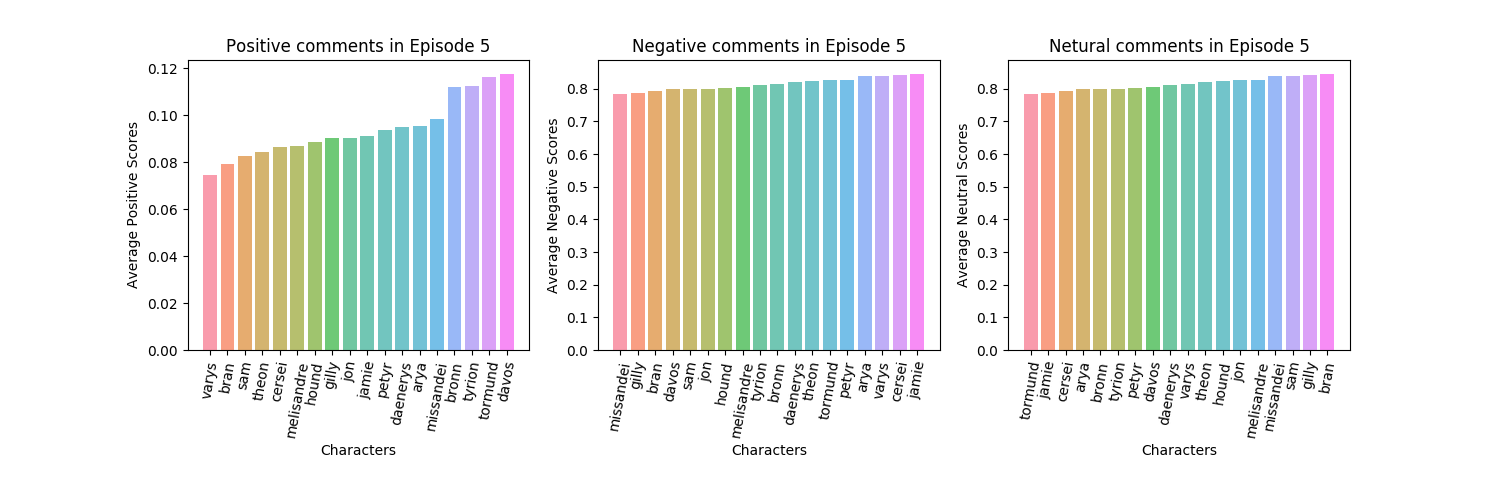
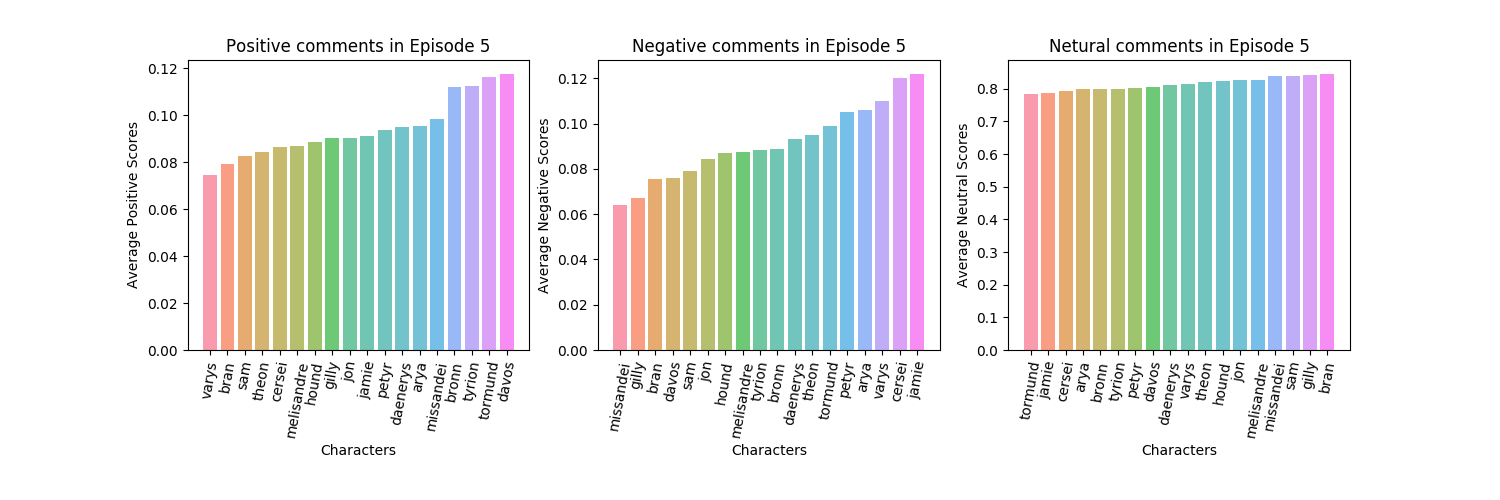
plot error fixed

Changed region(s): [[0.3373, 0.15, 0.6133, 0.66], [0.368, 0.69, 0.3987, 0.72], [0.368, 0.15, 0.3987, 0.18]]

diff --git a/src/SentimentCharactersplot.py b/src/SentimentCharactersplot.py
@@ -50,7 +50,7 @@ for episode_nr in range(len(list_of_inputs)):
         # sort the positive, negative and neutral dictionary by the values 
 		poskeys,posvalues = sortedkeysandvalues(positive)
 		negkeys,negvalues = sortedkeysandvalues(negative)
-		neukeys,negvalues = sortedkeysandvalues(neutral)
+		neukeys,neuvalues = sortedkeysandvalues(neutral)
 		# Define figure size
 		plot.figure(figsize=(15.0, 5.0))
 		#plot positive
@@ -82,7 +82,7 @@ for episode_nr in range(len(list_of_inputs)):
 		#plot neutral
 		plot.subplot(1, 3, 3)
 		ypos = np.arange(len(negvalues))
-		plot.bar(ypos, negvalues, color=sns.color_palette("husl",20), align = 'center', alpha = 0.7)
+		plot.bar(ypos, neuvalues, color=sns.color_palette("husl",20), align = 'center', alpha = 0.7)
 		plot.xticks(ypos, neukeys,rotation=80)
 		plot.subplots_adjust(bottom = 0.3)
 		plot.ylabel("Average Neutral Scores")
